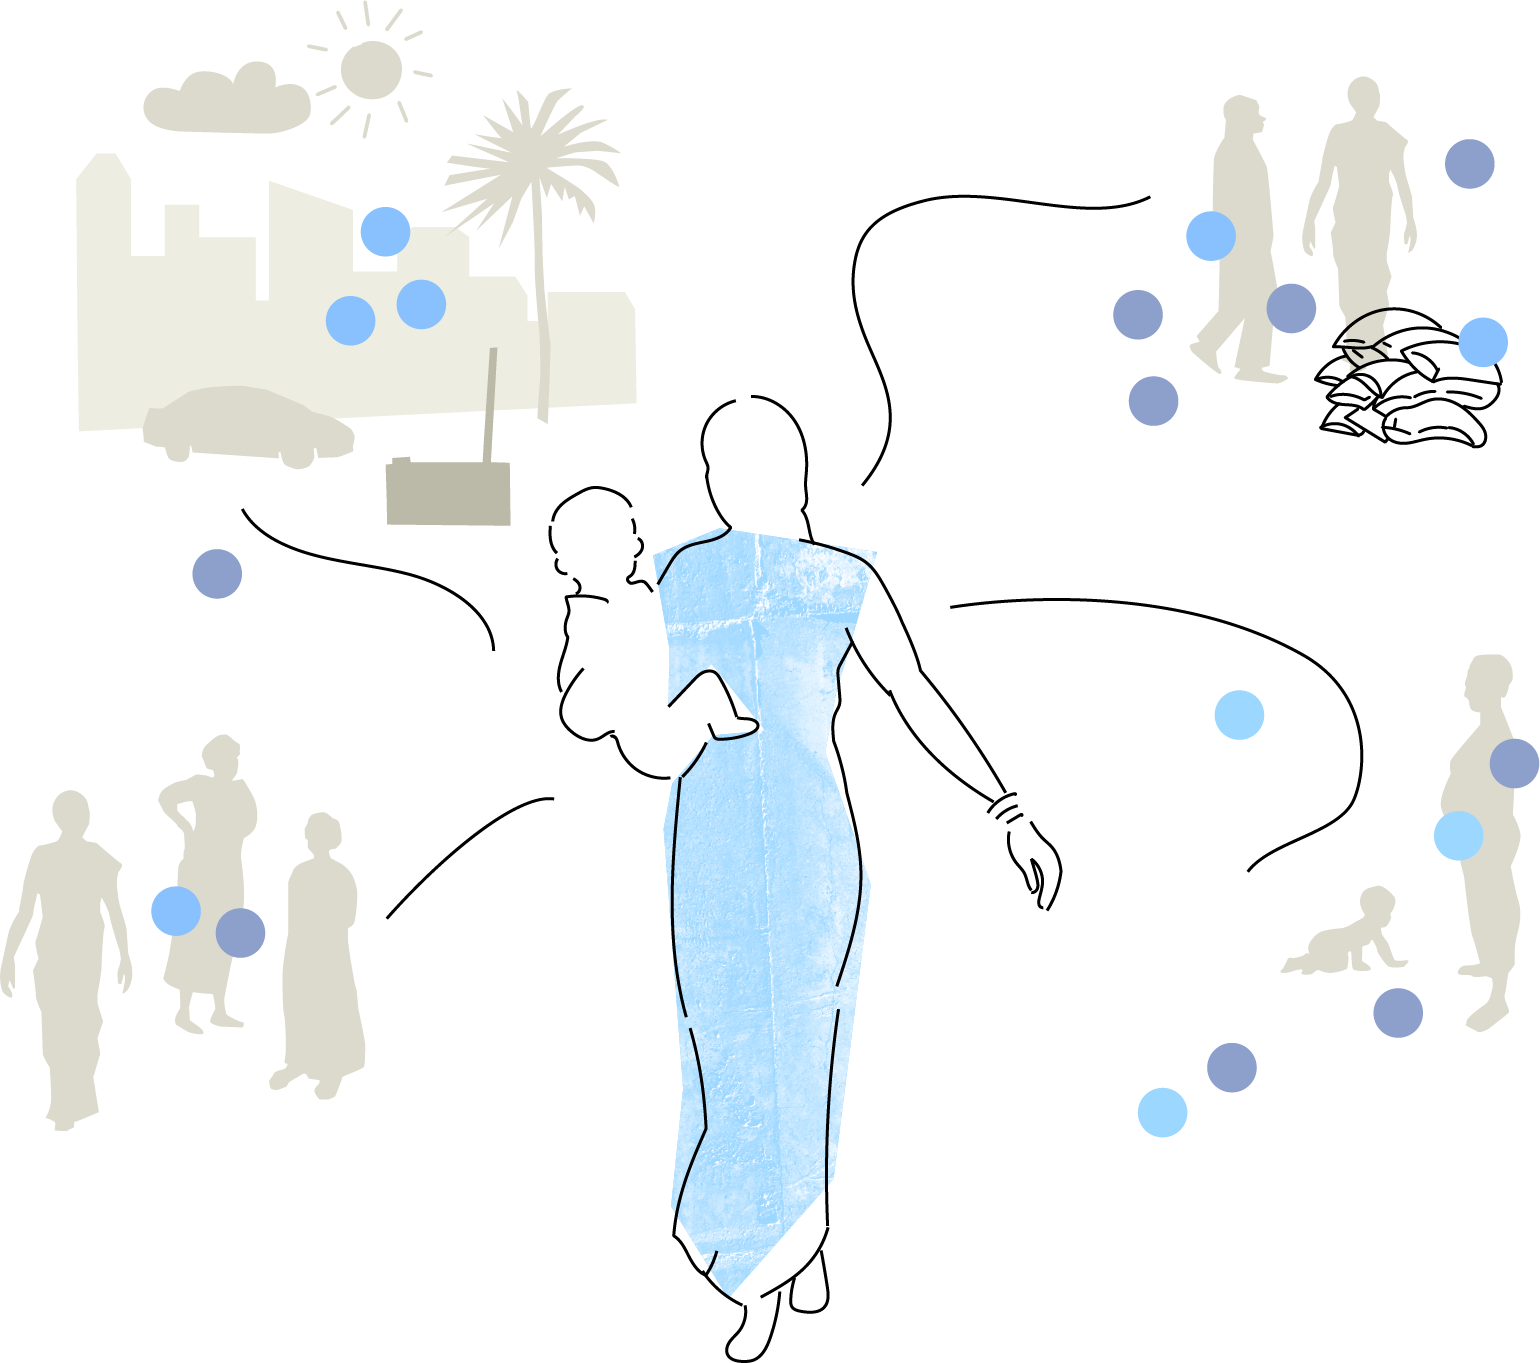
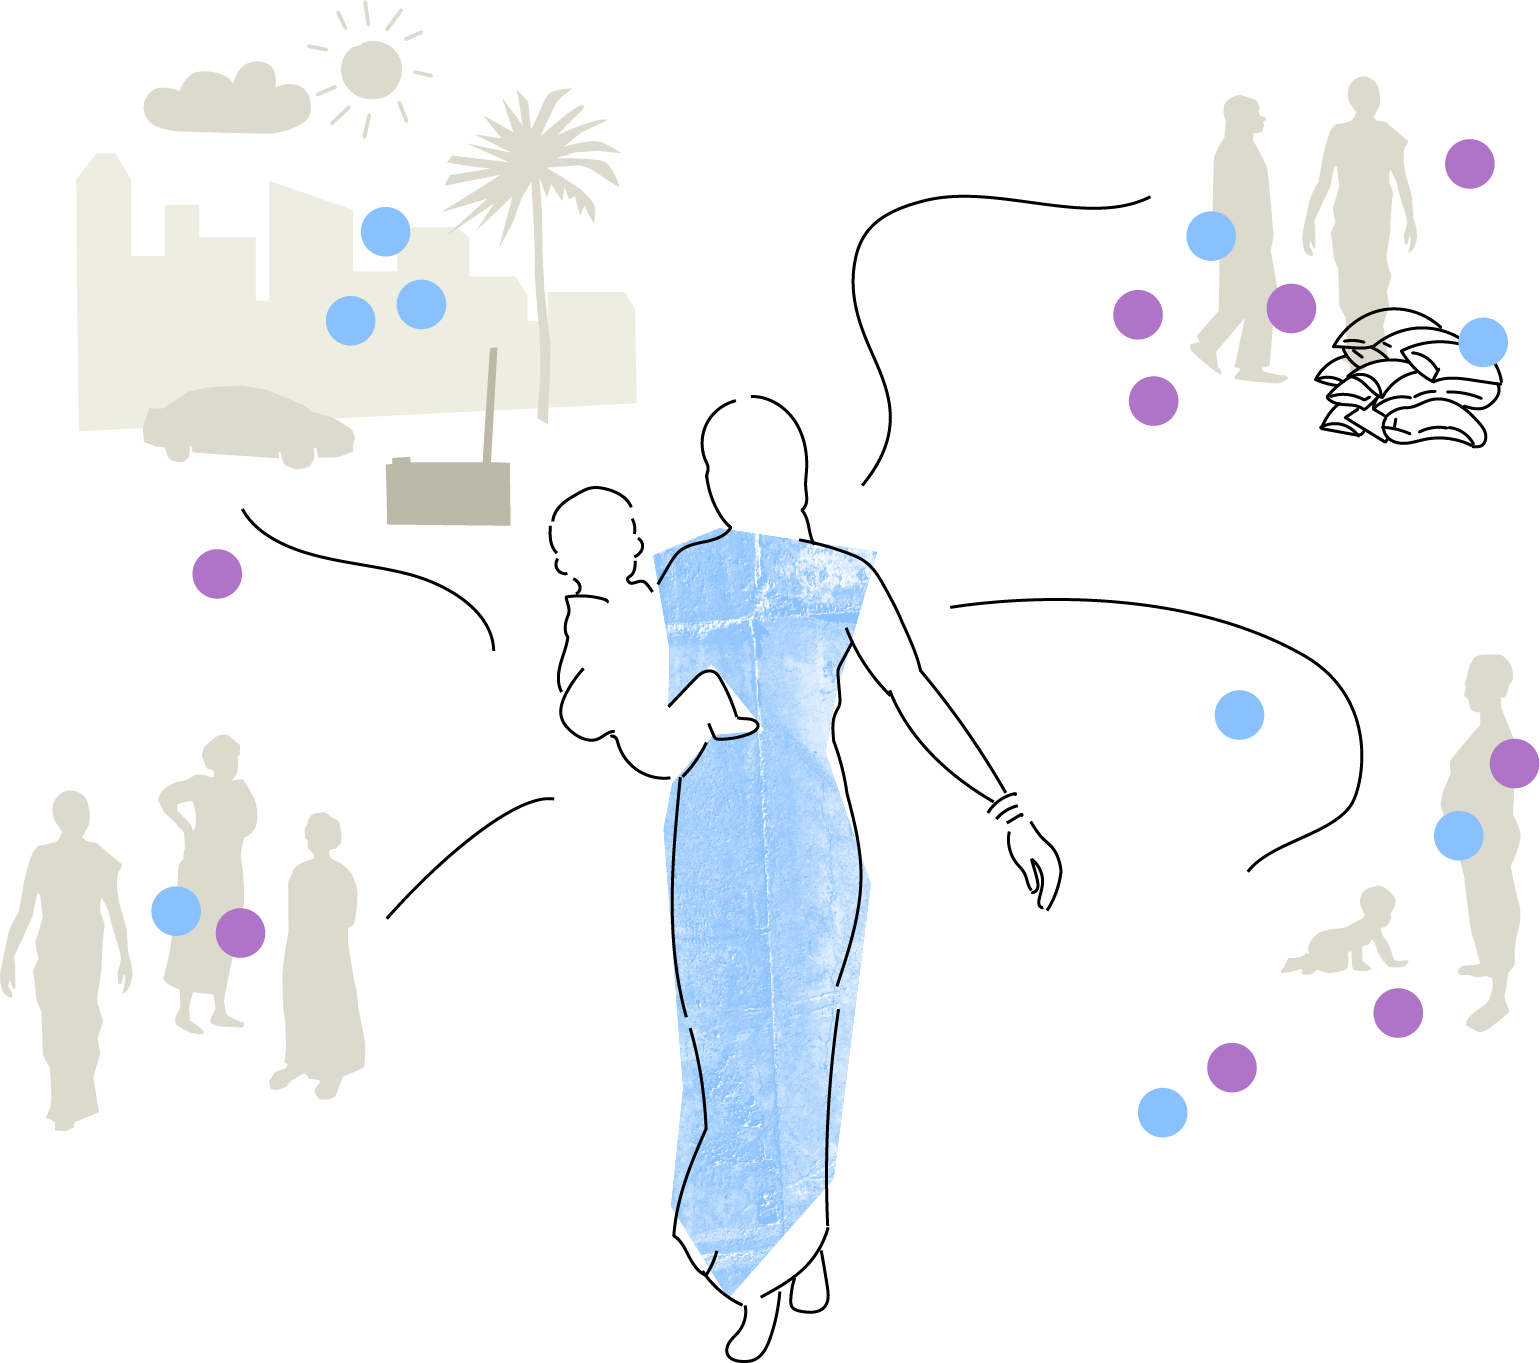
feat: update step 3 & 4 legend and MEP visual improvements
- Replace step 3 & 4 legend with Figma design: 24px solid dot + 'VF selected for clustering · Darker colours mean higher results' row, plus 'HH = Household  FP = Family planning' abbreviation row
- Update HO dot colour to #af73c8 and icon to health-outcomes-and-behaviours-icon.png on MEP page
- Add VF icon, update data type section labels and body copy
- Update understanding-data-image-1.png, remove understanding-data-image-2.png and HO-icon.png

diff --git a/src/pages/MethodologyExplainerPage/MethodologyExplainerPage.tsx b/src/pages/MethodologyExplainerPage/MethodologyExplainerPage.tsx
@@ -24,6 +24,8 @@ import Badge3 from '../../assets/icons/3.png';
 import Badge4 from '../../assets/icons/4.png';
 import TipsIcon from '../../assets/icons/Tips.svg';
 import understandingDataImage from '../../assets/understanding-data-image-1.png';
+import vfIcon from '../../assets/icons/VF-icon.png';
+import hoIcon from '../../assets/health-outcomes-and-behaviours-icon.png';
 import './MethodologyExplainerPage.css';
 
 interface MethodologyExplainerPageProps {
@@ -72,7 +74,7 @@ const DOMAIN_CELL_COLOR: Record<string, string> = {
   'health-mental':          '#d1ede4',
   'household-relationships':'#fff4c1',
   'household-economics':    '#ead5f7',
-  'social-support':         '#dde3ef',
+  'social-support':         '#e8d0f5',
   'human-natural':          '#fedbdb',
 };
 
@@ -193,7 +195,7 @@ function buildStates(step: number): DotState[] {
       [568,281,'v'],[400,105,'v'],[180,163,'v'],[248,105,'v'],[320,293,'v'],
       [212,459,'v'],[37,374,'v'],[61,469,'v'],[484,317,'v'],[352,293,'v'],
       [376,374,'v'],[527,410,'v'],[556,459,'v'],
-      // HO dots (#8da0cb)
+      // HO dots (#af73c8)
       [92,40,'h'],[592,0,'h'],[49,117,'h'],[248,175,'h'],[400,187,'h'],
       [503,281,'h'],[556,199,'h'],[556,370,'h'],[260,387,'h'],[388,493,'h'],
       [140,374,'h'],[140,459,'h'],
@@ -204,7 +206,7 @@ function buildStates(step: number): DotState[] {
     }
     for (let i = 0; i < HO; i++) {
       const [lx, ly] = fig[VF + i] ?? [0, 0];
-      states.push({ cx: (lx + 12) * S, cy: (ly + 12) * T, fill: '#8da0cb', opacity: 1, r: 8 });
+      states.push({ cx: (lx + 12) * S, cy: (ly + 12) * T, fill: '#af73c8', opacity: 1, r: 8 });
     }
     return states;
   }
@@ -221,7 +223,7 @@ function buildStates(step: number): DotState[] {
     }
     for (let i = 0; i < HO; i++) {
       const { cx, cy } = hoGridPos(i);
-      states.push({ cx, cy, fill: '#8da0cb', opacity: 1, r: 8 });
+      states.push({ cx, cy, fill: '#af73c8', opacity: 1, r: 8 });
     }
     return states;
   }
@@ -236,7 +238,7 @@ function buildStates(step: number): DotState[] {
       // screen_cy = cy + 210 → step4_cy = screen_cy - 90 = cy + 120
       states.push({ cx, cy: cy + 120, fill: '#88c1fd', opacity: 0, r: 8 });
     }
-    for (let i = 0; i < HO; i++) states.push({ cx: 258, cy: 700, fill: '#8da0cb', opacity: 0, r: 4 });
+    for (let i = 0; i < HO; i++) states.push({ cx: 258, cy: 700, fill: '#af73c8', opacity: 0, r: 4 });
     return states;
   }
 
@@ -270,7 +272,7 @@ function buildStates(step: number): DotState[] {
       }
     }
     for (let i = 0; i < HO; i++) {
-      states.push({ cx: 12, cy: 600, fill: '#8da0cb', opacity: 0, r: 4 });
+      states.push({ cx: 12, cy: 600, fill: '#af73c8', opacity: 0, r: 4 });
     }
     return states;
   }
@@ -292,7 +294,7 @@ function buildStates(step: number): DotState[] {
     }
   }
   for (let i = 0; i < HO; i++) {
-    states.push({ cx: 12, cy: 700, fill: '#8da0cb', opacity: 0, r: 4 });
+    states.push({ cx: 12, cy: 700, fill: '#af73c8', opacity: 0, r: 4 });
   }
   return states;
 }
@@ -465,7 +467,7 @@ const S5_ROWS = [
     clusterLabel: 'Cluster 4',
     cardBorder: 'var(--vulnerability-least-300-light, #71d6db)',
     cardBg: 'var(--vulnerability-least-050, #daeee3)',
-    hoDotColor: '#8da0cb',
+    hoDotColor: '#af73c8',
     outcomeLabel: 'Best outcomes',
   },
   {
@@ -492,7 +494,7 @@ const S5_ROWS = [
     clusterLabel: 'Cluster 3',
     cardBorder: 'var(--vulnerability-most-300-light, #f2a0ac)',
     cardBg: 'var(--vulnerability-most-050, #FFF0F1)',
-    hoDotColor: '#dde3ef',
+    hoDotColor: '#e8d0f5',
     outcomeLabel: 'Worst outcomes',
   },
 ];
@@ -536,7 +538,7 @@ function Step5Visual({ visible }: { visible: boolean }) {
                   <div
                     key={i}
                     className="mep-s5__ho-dot"
-                    style={{ backgroundColor: row.hoDotColor, borderColor: '#8da0cb' }}
+                    style={{ backgroundColor: row.hoDotColor, borderColor: '#af73c8' }}
                     onMouseEnter={e => setTooltip({ name: S5_HO_NAMES[i], pct: S5_HO_PCT[idx][i], x: e.clientX, y: e.clientY })}
                     onMouseMove={e => setTooltip(t => t ? { ...t, x: e.clientX, y: e.clientY } : t)}
                     onMouseLeave={() => setTooltip(null)}
@@ -1069,24 +1071,25 @@ function StepCanvasInner({ step, extraHint }: { step: number; extraHint?: React.
       {/* Legend */}
       <div className="mep-canvas__legend-wrap">
         <div className="mep-canvas__legend">
-          {step === 2 ? null : step === 3 ? (
+          {step === 2 ? null : step === 3 || step === 4 ? (
             <>
-              <span className="mep-canvas__legend-item">
-                <span className="mep-canvas__legend-dot" style={{ backgroundColor: '#88c1fd' }} />
-                Vulnerability factor (VF)
-              </span>
-            </>
-          ) : step === 4 ? (
-            <>
-              <span className="mep-canvas__legend-item">
-                <span className="mep-canvas__legend-dot" style={{ backgroundColor: '#88c1fd' }} />
-                Vulnerability factor (VF)
-              </span>
+              <div className="mep-canvas__legend-row">
+                <span className="mep-canvas__legend-item">
+                  <span className="mep-canvas__legend-dot mep-canvas__legend-dot--lg" style={{ backgroundColor: '#88c1fd' }} />
+                  <span className="mep-canvas__legend-item-primary">VF selected for clustering</span>
+                  <span className="mep-canvas__legend-sep">·</span>
+                  <span className="mep-canvas__legend-item-secondary">Darker colours mean higher results</span>
+                </span>
+              </div>
+              <div className="mep-canvas__legend-row mep-canvas__legend-row--abbr">
+                <span className="mep-canvas__legend-abbr">HH = Household</span>
+                <span className="mep-canvas__legend-abbr">FP = Family planning</span>
+              </div>
             </>
           ) : step === 5 ? (
             <>
               <span className="mep-canvas__legend-item">
-                <span className="mep-canvas__legend-dot" style={{ backgroundColor: '#8da0cb' }} />
+                <span className="mep-canvas__legend-dot" style={{ backgroundColor: '#af73c8' }} />
                 Health outcome or behaviour
               </span>
               <span className="mep-canvas__legend-item">
@@ -1109,7 +1112,7 @@ function StepCanvasInner({ step, extraHint }: { step: number; extraHint?: React.
               <span className="mep-canvas__legend-item">
                 <span
                   className="mep-canvas__legend-dot"
-                  style={{ backgroundColor: '#8da0cb', cursor: 'default' }}
+                  style={{ backgroundColor: '#af73c8', cursor: 'default' }}
                   onMouseEnter={e => setLegendTooltip({ text: HO_NAMES[0], x: e.clientX, y: e.clientY })}
                   onMouseMove={e => setLegendTooltip(t => t ? { ...t, x: e.clientX, y: e.clientY } : t)}
                   onMouseLeave={() => setLegendTooltip(null)}
@@ -1618,14 +1621,14 @@ function DefinedTerm({ children, tooltip }: { children: React.ReactNode; tooltip
 const STEPS: { step: number; label: string; title: string; body: React.ReactNode; tip?: string }[] = [
   {
     step: 1,
-    label: 'Step #1',
+    label: 'Step 1 of 5',
     title: 'Select data set',
-    body: <span>Pathways segments are identified using survey data - such as the Demographic and Health Survey (DHS) or a dedicated Pathways survey. The dataset should cover a large variety of vulnerability factors across social, cultural, economic and environmental dimensions and health outcomes and behaviours.</span>,
+    body: <span>Pathways segments are identified using survey data – such as the Demographic and Health Survey (DHS) or a dedicated Pathways survey. The dataset should cover a large variety of vulnerability factors across social, cultural, economic and environmental dimensions and health outcomes and behaviours.</span>,
     tip: 'Wondering if a segmentation is possible where you work? Reach out to us for a discussion.',
   },
   {
     step: 2,
-    label: 'Step #2',
+    label: 'Step 2 of 5',
     title: 'Identify vulnerability factors',
     body: <>
       <span>DHS and Pathways surveys contain hundreds of data points about a population's health and related socio-economic, cultural and environmental conditions. Pathways analyses these data points to identify which are most strongly associated with health outcomes and health behaviours. The result is a reduced set of differentiating vulnerability factors: the ones that carry real signal, not noise.</span>
@@ -1635,26 +1638,24 @@ const STEPS: { step: number; label: string; title: string; body: React.ReactNode
   },
   {
     step: 3,
-    label: 'Step #3',
-    title: 'Analyse vulnerability factor data across households',
+    label: 'Step 3 of 5',
+    title: 'Find patterns across vulnerability factors',
     body: <>
-      <span>The survey data already contains results for each of these factors across households. Pathways analyses vulnerability factors across all households to identify similar patterns.</span>
-      <br /><br />
-      <span>This variation across data points is what makes clustering possible. Without it, there would be no meaningful groups to find.</span>
+      <span>Pathways analyses patterns in how the strongly associated vulnerability factors differ among different women. This variation across data points is what makes clustering possible. Without it, there would be no meaningful groups to find.</span>
     </>,
   },
   {
     step: 4,
-    label: 'Step #4',
-    title: 'Group households with similar vulnerability profiles into clusters',
-    body: 'Households that look alike are grouped into clusters — each one a distinct segment found in the data, not a pre-defined archetype.',
+    label: 'Step 4 of 5',
+    title: 'Group women with similar profiles into segments',
+    body: 'Women with similar vulnerability profiles are grouped into segments — each one a distinct segment found in the data, not a pre-defined archetype.',
   },
   {
     step: 5,
-    label: 'Step #5',
-    title: 'Rank segments by health outcomes and behaviours',
+    label: 'Step 5 of 5',
+    title: 'Rank segments using health outcomes and behaviours',
     body: <>
-      <span>Health outcome and behaviour data points, from the same dataset are then used to rank the segments from most to least vulnerable. Segments are assigned one of four vulnerability levels:</span>
+      <span>Health outcome and behaviour data points, from the same dataset are then used to rank the segments from least to most vulnerable. Segments are assigned one of four vulnerability levels:</span>
       <br /><br />
       <div className="mep__step-badge-list">
         <div className="mep__step-badge-item"><img src={Badge4} alt="4" width={24} height={24} /> Most vulnerable</div>
@@ -1695,7 +1696,7 @@ function StepsSection({ onNavigate }: { onNavigate: (page: Page) => void }) {
       <div className="mep__s2-header">
         <Reveal className="mep__s1-header">
           <h2 id="mep-s2-title" className="mep__s1-title">How segments are identified</h2>
-          <p className="mep__s1-intro">We use a multi-stage statistical process to identify population segments grounded in real data.</p>
+          <p className="mep__s1-intro">We use a multi-stage statistical process to identify population segments using real data.</p>
         </Reveal>
       </div>
 
@@ -1751,9 +1752,7 @@ export function MethodologyExplainerPage({ currentPage, onNavigate }: Methodolog
                 Understanding Pathways data
               </h1>
               <p className="mep__hero-subtitle">
-                Pathways provides information on health outcomes and behaviours, as well as social, cultural, economic, and environmental factors related to women's and children's health. Using this data in{' '}
-                <DefinedTerm tooltip={SEGMENTATION_TOOLTIP}>segmentation</DefinedTerm>
-                {' '}gives a more comprehensive picture of what contributes to good or poor health outside the health system.
+                Pathways <DefinedTerm tooltip={SEGMENTATION_TOOLTIP}>segmentations</DefinedTerm> help you understand the factors that drive poor health outcomes inside and outside the health system.
               </p>
             </div>
             <div className="mep__hero-visual">
@@ -1779,22 +1778,28 @@ export function MethodologyExplainerPage({ currentPage, onNavigate }: Methodolog
 
             <div className="mep__two-col">
               <Reveal className="mep__data-type-col">
-                <div className="mep__data-type-icon mep__data-type-icon--vf">
-                  <div className="mep__data-type-swatch mep__data-type-swatch--vf" />
+                <div className="mep__data-type-icon">
+                  <img src={vfIcon} alt="" className="mep__data-type-icon-img" />
                 </div>
-                <h3 className="mep__data-type-title">Vulnerability factors</h3>
+                <div className="mep__data-type-content">
+                  <p className="mep__data-type-label">Group women together into segments</p>
+                  <h3 className="mep__data-type-title">Vulnerability factors</h3>
+                </div>
                 <p className="mep__data-type-body">
-                  These are the social, cultural, economic, and environmental circumstances that shape a woman's life outside the health system: who she is, where she lives, what resources she has access to. They are upstream conditions that influence her ability to lead a healthy life and whether she is likely to seek care. Vulnerability factors are drawn from the Pathways survey and datasets such as the DHS, and organised into six domains.
+                  Social, cultural, economic, and environmental circumstances that shape a woman's life outside the health system.
                 </p>
               </Reveal>
 
               <Reveal delay={80} className="mep__data-type-col">
-                <div className="mep__data-type-icon mep__data-type-icon--ho">
-                  <div className="mep__data-type-swatch mep__data-type-swatch--ho" />
+                <div className="mep__data-type-icon">
+                  <img src={hoIcon} alt="" className="mep__data-type-icon-img" />
                 </div>
-                <h3 className="mep__data-type-title">Health outcomes and health behaviours</h3>
+                <div className="mep__data-type-content">
+                  <p className="mep__data-type-label">Rank segments from most to least vulnerable</p>
+                  <h3 className="mep__data-type-title">Health outcomes and behaviours</h3>
+                </div>
                 <p className="mep__data-type-body">
-                  These are measurable indicators of women's and children's health and health behaviours, such as whether they attended antenatal care, vaccinated their children, were malnourished, or experienced a child death. They do not define segments; they are used to rank them, making visible which groups have the greatest needs.
+                  Measurable indicators such as antenatal care attendance, child vaccinations, malnutrition, or child death.
                 </p>
               </Reveal>
             </div>

diff --git a/src/pages/MethodologyExplainerPage/MethodologyExplainerPage.css b/src/pages/MethodologyExplainerPage/MethodologyExplainerPage.css
@@ -370,7 +370,7 @@
 .mep__data-type-col {
   display: flex;
   flex-direction: column;
-  gap: 24px;
+  gap: 32px;
 }
 
 .mep__data-type-icon {
@@ -379,18 +379,30 @@
   justify-content: center;
   padding: 12px;
   border-radius: 2px;
-  background: #E5E5DC;
+  background: #F3F3E6;
   align-self: flex-start;
 }
 
-.mep__data-type-swatch {
-  width: 24px;
-  height: 24px;
-  border-radius: 50%;
+.mep__data-type-icon-img {
+  height: 48px;
+  width: auto;
+  display: block;
 }
 
-.mep__data-type-swatch--vf { background: #88c1fd; }
-.mep__data-type-swatch--ho { background: #8DA0CB; }
+.mep__data-type-content {
+  display: flex;
+  flex-direction: column;
+  gap: 16px;
+}
+
+.mep__data-type-label {
+  font-size: 20px;
+  font-weight: 600;
+  font-family: 'Inter', sans-serif;
+  color: var(--text-tertiary);
+  line-height: 1.55;
+  margin: 0;
+}
 
 .mep__data-type-title {
   font-size: 30px;
@@ -402,7 +414,7 @@
 }
 
 .mep__data-type-body {
-  font-size: 18px;
+  font-size: 20px;
   font-family: 'Inter', sans-serif;
   font-weight: 400;
   color: var(--text-tertiary);
@@ -613,9 +625,8 @@
 /* Dot SVG scales to fit available space, centred */
 .mep-canvas {
   overflow: visible;
-  max-width: 100%;
-  max-height: 100%;
-  width: auto;
+  width: 100%;
+  max-width: 720px;
   height: auto;
   display: block;
 }
@@ -717,6 +728,48 @@
   height: 20px;
   border-radius: 50%;
   flex-shrink: 0;
+}
+
+.mep-canvas__legend-dot--lg {
+  width: 24px;
+  height: 24px;
+}
+
+.mep-canvas__legend-row {
+  display: flex;
+  justify-content: center;
+  flex: 1 1 100%;
+}
+
+.mep-canvas__legend-row--abbr {
+  display: flex;
+  gap: 16px;
+  justify-content: center;
+}
+
+.mep-canvas__legend-item-primary {
+  font-size: 16px;
+  font-weight: 600;
+  color: var(--text-tertiary, #666);
+}
+
+.mep-canvas__legend-sep {
+  font-size: 14px;
+  font-weight: 400;
+  color: var(--text-tertiary, #666);
+  margin: 0 2px;
+}
+
+.mep-canvas__legend-item-secondary {
+  font-size: 14px;
+  font-weight: 400;
+  color: var(--text-tertiary, #666);
+}
+
+.mep-canvas__legend-abbr {
+  font-size: 14px;
+  font-weight: 600;
+  color: var(--text-tertiary, #666);
 }
 
 /* Hover hint line */
@@ -1477,8 +1530,8 @@
 }
 
 .mep-s4-dot--vf { background: #88c1fd; }
-.mep-s4-dot--ho-solid { background: #8da0cb; }
-.mep-s4-dot--ho-dashed { background: #dde3ef; border: 1px solid #8da0cb; }
+.mep-s4-dot--ho-solid { background: #af73c8; }
+.mep-s4-dot--ho-dashed { background: #e8d0f5; border: 1px solid #af73c8; }
 
 .mep-s4-dot--hoverable {
   cursor: default;
